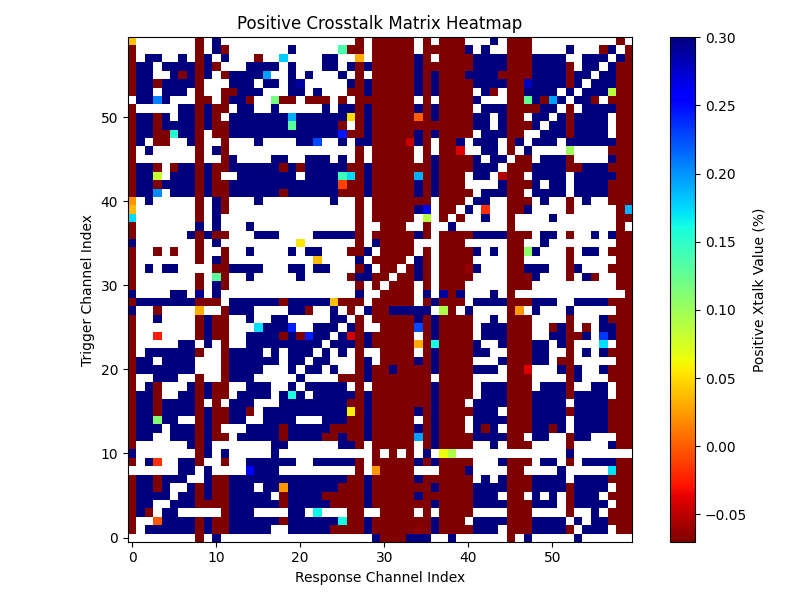
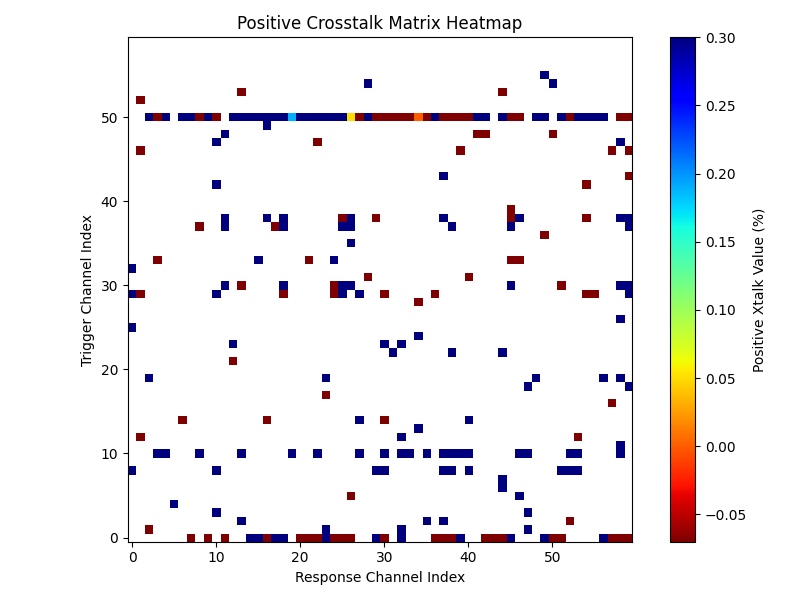
Amidst bunch of bugs

diff --git a/scripts/xtalk_batch.py b/scripts/xtalk_batch.py
@@ -103,13 +103,15 @@ for j2 in range(len(chn_id)):
 
     # Build histograms (counts + bin edges). For empty arrays save empty arrays.
     if neg_vals.size:
-        neg_counts, neg_bins = np.histogram(neg_vals, bins=NBINS, range=(max(min(neg_vals), -5),0.5))
+        # neg_counts, neg_bins = np.histogram(neg_vals, bins=NBINS, range=(max(min(neg_vals), -5),0.5))
+        neg_counts, neg_bins = np.histogram(neg_vals, bins=NBINS, range=(min(neg_vals),0.5))
     else:
         neg_counts = np.array([], dtype=int)
         neg_bins = np.array([])
 
     if pos_vals.size:
-        pos_counts, pos_bins = np.histogram(pos_vals, bins=NBINS, range=(-0.5,min(max(pos_vals), 5)))
+        # pos_counts, pos_bins = np.histogram(pos_vals, bins=NBINS, range=(-0.5,min(max(pos_vals), 5)))
+        pos_counts, pos_bins = np.histogram(pos_vals, bins=NBINS, range=(-0.5, max(pos_vals)))
     else:
         pos_counts = np.array([], dtype=int)
         pos_bins = np.array([])

diff --git a/src/xtc_utils/self_defined_functions.py b/src/xtc_utils/self_defined_functions.py
@@ -119,7 +119,14 @@ def files_and_chnid(config: XTCConfig, data_dict: dict = None):
     # print(hit_timestrings)
     if set(hit_timestrings) != set(dsp_timestrings):
         raise ValueError("Hit and DSP files have mismatched time strings.")
-    time_string = hit_timestrings[0] 
+    time_string = hit_timestrings[0]
+
+    #Check if number of events match
+    hit_table = lh5.read('/ch1078400/hit/', new_hit_list)
+    dsp_table = lh5.read('/ch1078400/dsp/', new_dsp_list)
+    print(f"hit_table_length: {len(hit_table)}; dsp_table_length:{len(dsp_table)}")
+    if len(hit_table) != len(dsp_table):
+        raise ValueError("Hit and dsp tables have unequal number of events.")
     
     #Now we can obtain the raw ids using the .on() utility.
     

diff --git a/scripts/histogram_inspector.py b/scripts/histogram_inspector.py
@@ -75,6 +75,8 @@ else:
 if not success:
     print(f"No plot due to {reason}")
     plt.figure()
+    print(x)
+    print(y)
     plt.bar(x, y, width=np.diff(bins), alpha=0.5, label=f"data (N={total_events})")
     plt.title(f"{label} histogram j1={j1}, j2={j2}")
     plt.legend()
@@ -102,6 +104,8 @@ mask = y > 0.05 * np.max(y)
 x_fit = x[mask]
 
 plt.figure()
+print(x)
+print(y)
 plt.bar(x, y, width=np.diff(bins), alpha=0.5, label=f"data (N={total_events})")
 x_dense = np.linspace(min(x_fit), max(x_fit), 300)
 plt.plot(
